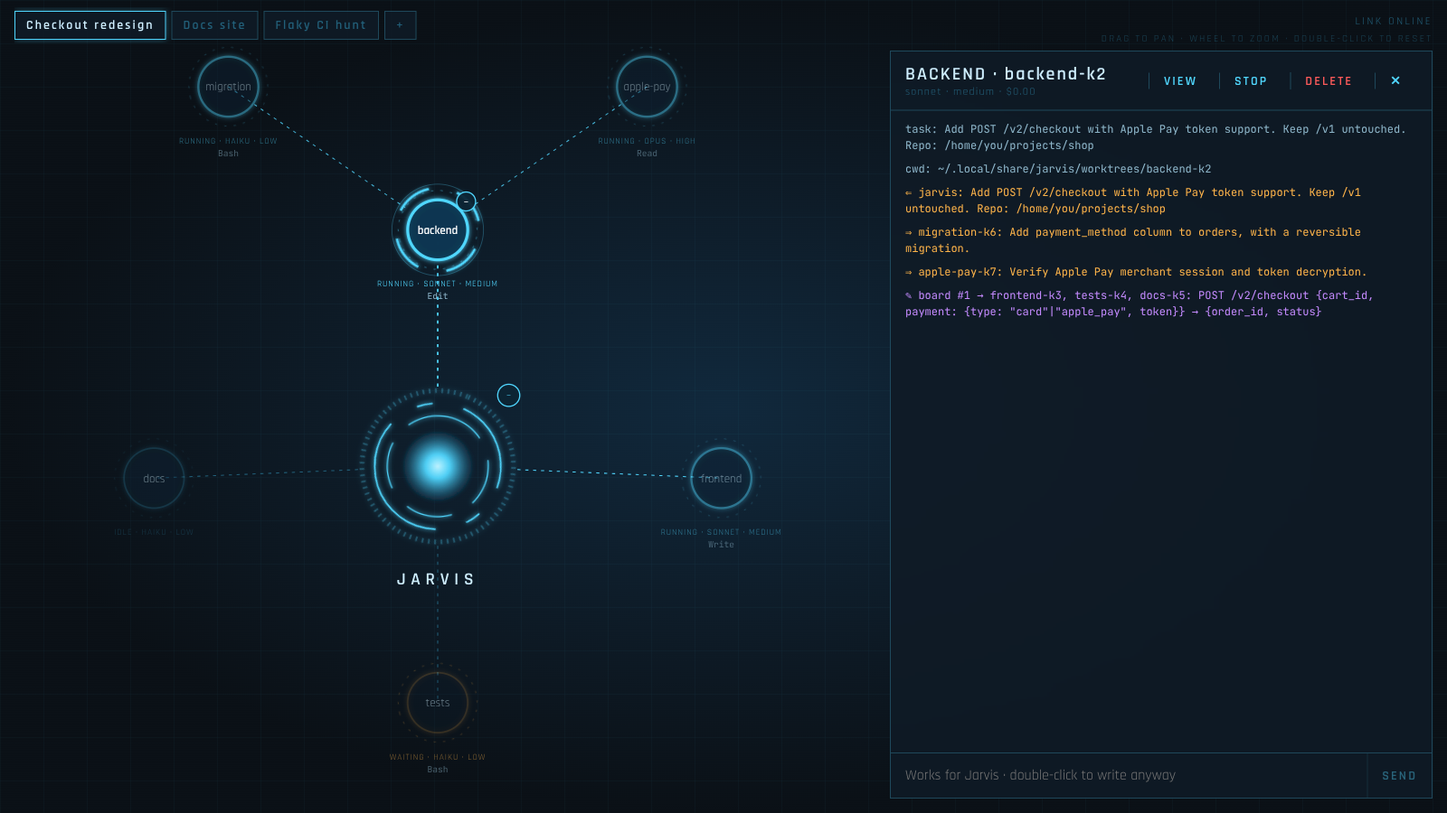
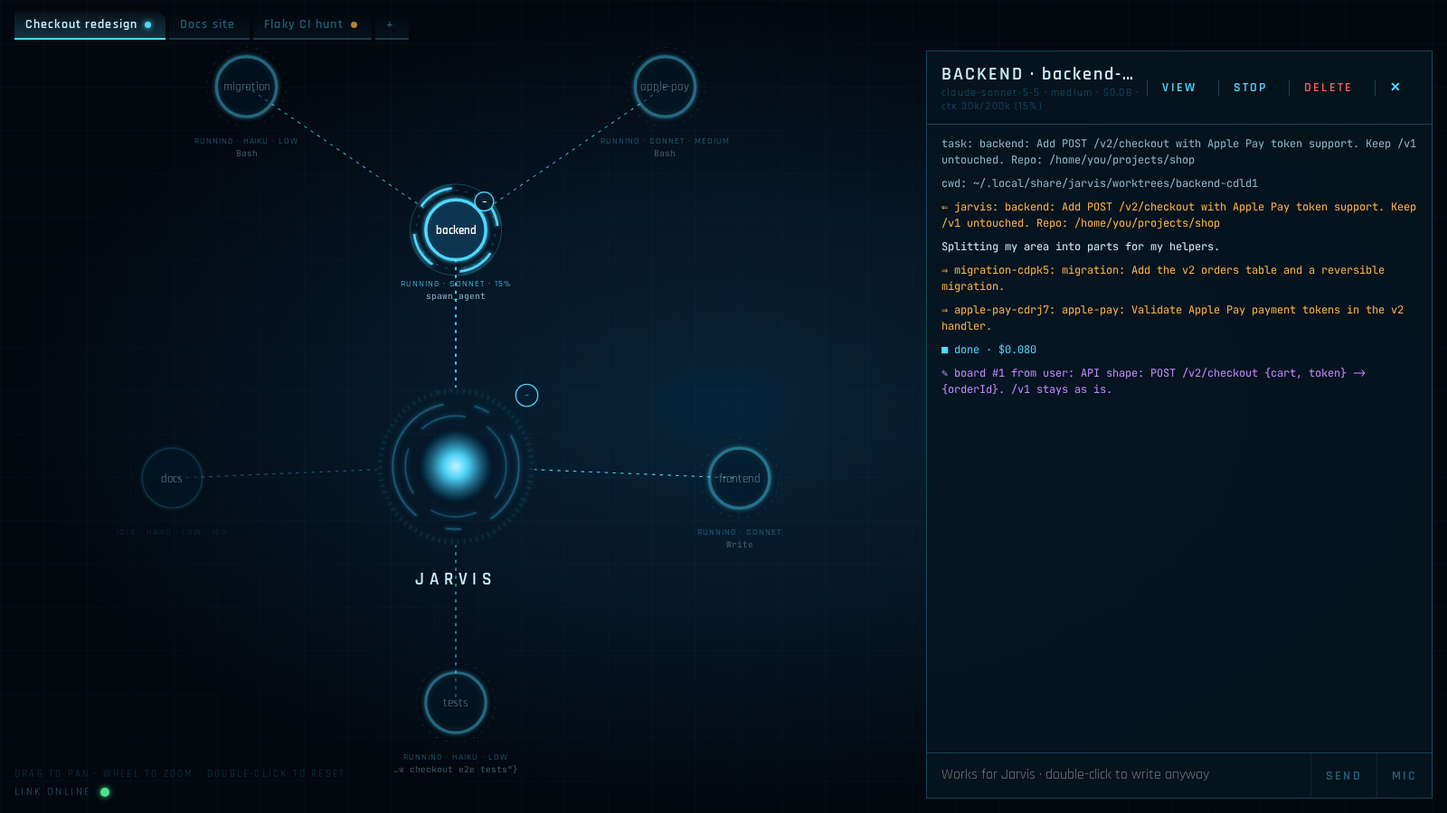
docs: shorten the README into an entry point, move details to a user guide, retake all media
The README is now a short entry point: what Jarvis is, quick start, feature bullets, a short voice section, the important settings and links. The detailed sections (map, controls, big teams, full voice input behavior, safety, costs, the full settings table) moved unchanged into docs/GUIDE.md.

The demo animation and all five screenshots are retaken from the current UI (full-width workspace bar, Anthropic status dot, COMPACT and RESET buttons, mic button) and are smaller in total.

diff --git a/README.md b/README.md
@@ -4,13 +4,13 @@
 
 **One AI manager that runs a team of AI coding agents, and a live map where you watch them work.**
 
-You describe a goal in plain words. Jarvis splits it into tasks, hands each task to its own [Claude Code](https://claude.com/claude-code) agent, and shows the whole team on screen: who is working, on what, how much it costs, and when someone needs your OK. Jarvis never edits code. Before it hands a hard decision to you, it asks an independent, quick, read-only Opus advisor agent for a second opinion, then decides and tells you both; scope, taste, money, publishing and deleting your work stay yours. Each agent works on its own git branch.
+Describe a goal in plain words. Jarvis splits it into tasks, hands each to its own [Claude Code](https://claude.com/claude-code) agent, and shows the whole team on screen: who works on what, what it costs, and when someone needs your OK. Jarvis never edits code, and asks an independent read-only Opus advisor before it hands a hard decision to you.
 
 ![Jarvis splits a goal into tasks, hires agents and a lead with its own helpers, and asks for approval when needed](docs/screenshots/demo.webp)
 
 ## Quick start
 
-You need Linux or macOS, **Node.js 24+**, **git**, and **Claude Code** set up so that `claude` works in your terminal. Agents use the same login, API key or proxy settings.
+Needs Linux or macOS, **Node.js 24+**, **git**, and Claude Code set up so that `claude` works in your terminal (agents reuse its login, API key or proxy).
 
 ```bash
 git clone https://github.com/ARostovsky/jarvis.git
@@ -18,156 +18,55 @@ cd jarvis
 npm install
 ln -s "$PWD/bin/jarvis.mjs" ~/.local/bin/jarvis   # once; any folder in your PATH works
 
-jarvis            # starts the server in the background and opens http://127.0.0.1:7777
+jarvis            # starts the server in the background, opens http://127.0.0.1:7777
 ```
 
-Also: `jarvis stop|restart|status|logs`. Foreground: `npm start`.
-
-Browser tests: `npm run e2e` (Playwright, starts its own server on port 7798, or `E2E_PORT` to run several at once, e.g. `E2E_PORT=7810 npm run e2e`, with a throwaway data dir and a scripted fake of the Agent SDK, so no API calls; needs chromium, `npx playwright install chromium`).
-
-First goal:
-
-1. A fresh install has no workspace and shows an empty screen: click **NEW WORKSPACE** (or **+** in the tab bar). Name the workspace and, optionally, give the path to your git project. Project and notes folders you used before are offered in a list, most recent first.
-2. In the Jarvis chat, describe a goal, for example: *"Add a /health endpoint with a test."*
-3. Watch Jarvis hire agents. Answer approval cards.
-4. Work lands on `jarvis/<agent-id>` branches in your repo. Review and merge.
-
-## What you see
-
-### The map
-
-Jarvis is in the center, agents around it. Each tab is a separate workspace: its own Jarvis, team and history.
+Also `jarvis stop|restart|status|logs`; foreground: `npm start`. Then click **NEW WORKSPACE**, name it, optionally give the path to your git project, and describe a goal in the Jarvis chat.
 
 ![Jarvis in the center, agents around it, Jarvis's chat on the right](docs/screenshots/hero.png)
 
-| Color | Meaning |
-|-------|---------|
-| Cyan, bright | Working right now |
-| Dim | Idle, waiting for the next message |
-| Amber | Waiting for your approval |
-| Red | Something went wrong |
-| Gray | Stopped |
+## Features
 
-### Log and chat
+- **Live map.** Jarvis in the center, agents around it, one tab per workspace. Color shows state: working, idle, waiting for approval, error, stopped.
+- **Safe by default.** Each agent works in its own git worktree on `jarvis/<agent-id>`; you review and merge. Nothing is lost silently, workspaces are archived, not deleted.
+- **Approvals.** Agents run in Claude Code's `auto` mode; only what its classifier cannot decide shows up as an ALLOW / DENY card.
+- **Teams.** Jarvis picks the cheapest fitting model per task; leads hire helpers; big teams fold into `+N` badges.
+- **Costs.** Cost per agent and workspace, COMPACT and RESET for long contexts, nothing stopped automatically.
+- **Notes folder.** Optional shared markdown folder Jarvis keeps current and commits to git.
+- **Anthropic status dot** (bottom left): green all good, amber degraded, red outage, grey unknown.
+- **Local only.** Listens on `127.0.0.1`, rejects other origins; every event is on disk, so restarts lose nothing.
 
-- Click a circle to open its log: task, messages, tool calls, cost per step.
-- Give goals in Jarvis's chat. Other agents' inputs are locked; double-click one to write anyway.
+Details, screenshots and all behavior: [docs/GUIDE.md](docs/GUIDE.md).
 
-![An agent's log: the task, messages to its helpers, a board note, the cost](docs/screenshots/agent.png)
+## Voice input (optional)
 
-### Approvals
+Off by default. A mic button next to SEND turns speech into text with a local Whisper model (faster-whisper); audio stays on your machine and is never stored.
 
-- Agents run in Claude Code's `auto` mode. Only actions its classifier cannot decide show up as a card.
-- Read the command, press ALLOW or DENY. The agent waits.
-
-![An approval card: the tests agent wants to run a shell command](docs/screenshots/approve.png)
-
-### Controls
-
-- Drag a tab left or right to reorder workspaces; the order is kept across restarts.
-- Jarvis in one workspace can message Jarvis in another (`tell_workspace`, e.g. a heads-up about a shared branch). Messages are urgent by default and wake an idle target; a reply to an urgent message is always urgent. With `urgent: false` an idle one is not woken: its tab shows a count of unread messages, and they arrive with its next turn. A wake happens only if the target is idle (a stopped one stays stopped; the reply says which targets were not woken).
-- A workspace's Jarvis can start another workspace with a task (`create_workspace`). Use it when you ask a workspace to hand a separate task to a new one. The new workspace gets the same project (unless another is given), notes folder and Jarvis setup, and sees only the task text, so the task must be self-contained. The creating workspace keeps running. Refused while working on a message from another workspace, and after 3 creations until you write to it again.
-- Right-click an agent, Jarvis or a tab: model, effort, stop, delete, hide, rename, archive.
-
-![Right-click menu on the frontend agent: Open log, Model, Effort, Hide, Stop, Delete agent](docs/screenshots/menu.png)
-
-### Big teams
-
-- Every agent ends its report with a `VERDICT: verified`, `partial` or `failed` line; Jarvis routes on it. A small task goes straight to one agent, a large or unclear goal gets a planner agent first.
-- A lead folds its helpers into a `+N` badge while none of them works.
-- Only agents Jarvis starts as leads (for a large multi-part area) can hire helpers; other agents work alone. A lead shows as running until its helpers are done, then reports to Jarvis once (a restart in between loses that report).
-- Jarvis hides agents that were idle over 10 minutes once it has more than 8. Right-click Jarvis for **Hide idle agents** or **Show all agents**.
-
-![A big team: two leads with their helpers out, one folded into +5, and Jarvis hiding 9 idle agents](docs/screenshots/fold.png)
-
-### Voice input (optional)
-
-Off by default. A mic button next to SEND turns speech into text with a local Whisper model (faster-whisper in a Python sidecar). Jarvis itself records the microphone through PipeWire, so the browser asks for no permission. Audio stays on your machine and is never stored (unless you set `JARVIS_VOICE_DEBUG_WAV`, see the env table); on release the transcript is sent at once to the agent that was selected when you started, like a voice message, and your draft stays as it was. With `JARVIS_VOICE_AUTOSEND=0` it lands in the input box at the caret instead and is never sent by itself. A failed send puts the text into that agent's draft.
-
-To enable it:
-
-1. Linux with PipeWire and `pw-record` (package `pipewire`, or `pipewire-bin` / `pipewire-utils`). Jarvis records the default input of your sound server: the one `wpctl status` marks with `*` under Sources.
-2. Set up Python with `faster-whisper` (`voice/setup.sh` creates `voice/.venv` and fetches the models; Jarvis uses that venv by default), or point `JARVIS_VOICE_PYTHON` at a Python that already has it.
+1. Needs Linux with PipeWire (`pw-record`) and a GPU for `large-v3` (about 4 GB VRAM; CPU falls back to a slower model).
+2. Run `voice/setup.sh` (creates `voice/.venv`, fetches the models).
 3. Start Jarvis with `JARVIS_VOICE=1` (`cpu` forces CPU).
 
-If `pw-record`, Python or `faster-whisper` is missing, Jarvis starts as usual, logs one `voice disabled: ...` line (for example `voice disabled: pw-record not found`) to `server.log` and shows no mic button. The check runs after the server starts, so the mic button appears a moment later (reload the page if it is missing right after a start).
-
-Push-to-talk: hold the mic button, or hold `Ctrl+Space` in the input box or `Alt+V` anywhere, and release to transcribe and send the text to the agent that was selected when you started (`JARVIS_VOICE_AUTOSEND=0` puts it into the input box instead). Voice follows the same guard as typing: for an agent that works for a lead the input is read-only, so recording does not start until you double-click the input to unlock it. While recording, a red strip replaces SEND: `● 0:07 · release to send · Esc / drag away to cancel`. To cancel, release within 0.4 s of the press (a tap), press `Esc`, or, with the mouse, drag the pointer more than about 60 px away from the button (it turns grey and struck through; move back to keep recording) and release there. A cancel sends and transcribes nothing; with autosend, switching to another window cancels too. While it transcribes the strip says `transcribing… Esc to discard` and the button ignores presses; `Esc` then drops the text when it arrives (it is not inserted or sent; the transcription itself still runs to the end). The mic button is greyed out like SEND while the input is read-only. Recording stops by itself after 60 s (`JARVIS_VOICE_MAX_S`). If the server ends a recording on its own (it lost track of the page, or restarted), the button goes back to idle and a toast says `Recording stopped`. The button turns red and shows a level meter while it records. Recording starts when Jarvis has the first audio from `pw-record`, about a tenth of a second after the press, so wait for the red button before the first word. If `pw-record` cannot start, a toast says why. A muted microphone records silence and gives `No speech recognized`: check `wpctl status`.
-
-The recorder never outlives its use: it stops on release, on `Esc`, after 60 s, when the page stops reporting for 4 s (tab closed, crash), and when Jarvis exits. Only the tab that started a recording can stop or cancel it.
-
-The default model is `large-v3` (float16, beam 5): about 4 GB of VRAM at peak, loaded on the first recording and unloaded after 10 idle minutes. On CPU it falls back to `large-v3-turbo` (int8), which is slower than real time on a short clip. English and Russian are detected per recording. `JARVIS_VOICE_MODEL` picks another model.
-
-### Anthropic status
-
-The dot at the bottom left, next to the link indicator, shows whether Anthropic's API is up: green all good, amber degraded, red outage, dark red critical, grey unknown (status page unreachable). Hover for the description and open incidents; click to open status.claude.com. It is global, not per workspace, so you can tell "Anthropic is down" from an agent error.
-
-### Notes folder
-
-- A workspace can point at a persistent markdown folder, shareable between workspaces. Set it in the **+** dialog or the tab's right-click menu.
-- Jarvis reads it at the start of a goal and keeps it up to date. Other agents are only *told* to read it, and to edit it only when their task asks for it. This is a prompt rule, not enforced.
-- Each workspace keeps its log in `journal/<date>-<name slug>-<id suffix>.md`. When you rename the workspace, its journal files are renamed too: Jarvis learns the new name from a note in its next message, and anything it still writes under the old name is merged into the new file at the next commit.
-- Jarvis commits the folder to git after each turn. Each workspace commits only the files its own agents changed (Jarvis and helpers); your own edits there stay uncommitted. Each commit has a short description of the change written by Jarvis, and ends with `Workspace: <name>`. Details: [docs/ARCHITECTURE.md](docs/ARCHITECTURE.md).
-
-### Code blocks
-
-- Every fenced code block in the chat has a **Copy** button at its top right (shown on hover or keyboard focus, always on touch screens). One click copies the whole block.
-
-## Safety
-
-- **Your project folder is never edited directly** when it is a git repo. Each agent works in its own git worktree on branch `jarvis/<agent-id>`. You review and merge. When an agent is stopped or its workspace is archived, its worktree and branch are removed if the branch is merged into `main` (or has no commits) and the worktree has no uncommitted changes; anything else is kept and listed.
-- **Nothing is lost silently.** Deleting an agent with unsaved changes asks you to commit or discard them. It also names the files no commit keeps, which can only be discarded: files your `.gitignore` ignores (`.env`, `node_modules`), and all files of an agent that works outside git. Archiving refuses while agents work, and commits unsaved work first. Ignored files move into the archive with the workspace and come back on restore; one the restored branch now has a file for stays parked, and deleting the agent names it. Jarvis never deletes agent branches.
-- **Agents cannot run code through Jarvis's own git.** Jarvis takes the git dir from your repo, not from the worktree's `.git` file, which an agent could replace. Repos nested in a worktree are not looked into.
-- **Archive, not delete.** Closing a workspace archives it (also the last one: zero workspaces is fine and shows the empty screen), and you can restore it with all conversations. Agents whose branch you have since merged and deleted come back without a workdir; delete them. If a branch is checked out somewhere else, the restore fails with that error and the workspace stays in the archive. Permanent delete works only in the archive and asks you to type the workspace name.
-- **Local only.** The web UI listens on `127.0.0.1` and rejects requests from other websites.
-- **Restarts are safe.** Every event is written to disk. After a restart the map, logs and costs return, and agents continue on the next message.
-
-## Costs
-
-- Every agent is a separate Claude session. Each panel shows its cost and **Σ**, the total with its helpers.
-- The workspace tab shows the full spend of the workspace, including stopped agents and agents you deleted.
-- Jarvis picks the cheapest fitting model (`haiku`, `sonnet`, `opus`). You can change it.
-- Long context costs more. Press **COMPACT** to summarize. When a helper's context passes 200k tokens or its cost passes $10, its lead (or Jarvis) is told, and can restart it with a summary. Nothing is stopped automatically.
-- Jarvis's own context is reset automatically. Past 150k tokens, at a calm moment (no agent of the workspace runs or waits), or past 200k tokens regardless, always after a quiet second following one of its results, the server first asks it to update `status.md` and its journal in the notes folder (one save-notes turn; skipped without a notes folder), then ends the session and starts a fresh one in the same workspace. The fresh session gets a seed: the agent list, its last message and the messages it may not have handled. Both bounds are capped at 0.6 × the model's context window once that is known (so on a 200k window both act at 120k). A fresh session that starts large cannot reset again until it has grown 50k beyond its first turn. Workspace, agents, board and log are untouched; the log shows a compaction marked `reset`. The RESET button next to COMPACT in Jarvis's panel is a direct order: it resets whatever the size, and the save turn cannot stop it (Jarvis is told you ordered the reset and must not argue; if that turn fails or runs past 2 minutes, the session is replaced anyway). The confirmation depends on the notes folder: with one, Jarvis saves its state there first (editing shared files carefully, as other workspaces may use the same folder); without one nothing is saved, only a short summary (agents, last message, pending messages) survives and the decisions of the chat are lost, so use COMPACT instead. The button is hidden while Jarvis works; a running turn is never interrupted. COMPACT is unchanged.
+Hold the mic button, `Ctrl+Space` in the input box or `Alt+V` anywhere; release to transcribe and send to the agent selected when you started (`JARVIS_VOICE_AUTOSEND=0` puts the text into the input box instead). Cancel with `Esc`, a short press (under 0.4 s), or by dragging the pointer away from the button before releasing. Bias recognition toward your own terms with `JARVIS_VOICE_PROMPT` (appended to a built-in list; `JARVIS_VOICE_PROMPT_DEFAULT=0` drops the built-in list). More in [docs/GUIDE.md](docs/GUIDE.md#voice-input-optional).
 
 ## Settings
 
-All optional. Set as environment variables before `jarvis` or `npm start`:
+All optional, set as environment variables before `jarvis` or `npm start`. Data lives in `~/.local/share/jarvis/` (or `$XDG_DATA_HOME/jarvis`).
 
 | Variable | Default | What it does |
 |----------|---------|--------------|
 | `PORT` | `7777` | Web UI port |
 | `JARVIS_AGENT_MODEL` | `sonnet` | Default model for new agents |
-| `JARVIS_AGENT_EFFORT` | `medium` | Default agent effort (`low` ... `max`) |
-| `JARVIS_LEAD_MAX_EFFORT` | `medium` | Top effort a lead may give its sub-agents; a lead also cannot give them a higher model than its own |
 | `JARVIS_ARBITER_MODEL` | `sonnet` | Jarvis model |
-| `JARVIS_ARBITER_EFFORT` | `medium` | Jarvis effort |
 | `JARVIS_PERMISSION_MODE` | `auto` | `auto`, `acceptEdits`, `default`, ... |
-| `JARVIS_PLUGINS` | `caveman@caveman,ponytail@ponytail,frontend-design@claude-plugins-official,code-simplifier@claude-plugins-official,code-review@claude-plugins-official,claude-md-management@claude-plugins-official` | Claude Code plugins agents load (comma-separated; empty = none; missing ones are skipped) |
-| `JARVIS_STATUS_URL` | `https://status.claude.com/api/v2/summary.json` | Statuspage JSON behind the status dot (override only for tests) |
-| `JARVIS_RESET_SOFT_TOKENS` | `150000` | Jarvis context size that triggers a reset at a calm moment; `0` turns off the soft bound |
-| `JARVIS_RESET_HARD_TOKENS` | `200000` | Jarvis context size that triggers a reset at its next result; `0` turns off automatic reset entirely |
-| `JARVIS_RESET_SAVE_TIMEOUT_MS` | `120000` | Longest the RESET button waits for Jarvis to save its notes before it resets anyway |
-| `JARVIS_CLAUDE_PATH` | `claude` on `PATH` | Claude Code binary sessions run. Default is the first executable `claude` on `PATH` (the auto-updating install), picked up again at each session start. It falls back to the build bundled in the SDK package when none is found, when `claude --version` fails, or when it is older than the bundled one. `bundled` forces the bundled build (escape hatch); the choice is logged at startup |
 | `JARVIS_PLAYWRIGHT` | `1` | Headless browser for each agent; `headed` shows windows; `0` turns it off |
-| `JARVIS_VOICE` | unset (off) | `1` turns voice input on, `cpu` forces CPU. See Voice input |
-| `JARVIS_VOICE_AUTOSEND` | `1` | On release the transcript is sent at once to the agent that was selected when recording started (like a Telegram voice message); your draft stays untouched. `0` inserts it into the input box instead, without sending |
-| `JARVIS_VOICE_MAX_S` | `60` | Seconds after which the server stops a recording by itself (the audio so far is still transcribed on release) |
-| `JARVIS_VOICE_LEASE_S` | `4` | Seconds without a level poll from the page after which the server discards a recording and closes the microphone |
-| `JARVIS_VOICE_PYTHON` | `voice/.venv/bin/python` if it exists, else `python3` | Python with `faster-whisper` for the voice sidecar |
-| `JARVIS_VOICE_MODEL` | `large-v3` | Whisper model of the sidecar |
-| `JARVIS_VOICE_LANGS` | `en,ru` | Languages the sidecar picks from |
-| `JARVIS_VOICE_IDLE_S` | `600` | Idle seconds before the sidecar exits and frees VRAM |
-| `JARVIS_VOICE_TIMEOUT_S` | `120` | Seconds one recording may take to transcribe; then the sidecar is killed, the request fails and the next one restarts it |
-| `JARVIS_VOICE_PROMPT` | unset | Extra Whisper initial-prompt terms, appended to the built-in list (comma-separated names and terms). The built-in list biases recognition toward English dev terms said in Russian speech: Jarvis, workspace, worktree, arbiter, agent, spawn, board, notes, Claude, Opus, Sonnet, git, commit, branch, rebase, merge, push, pull request, PR, main, diff, review, test, e2e, npm, TypeScript, Python, Docker, Kafka, API, CI, bug, fix, refactor, deploy (full text: `DEFAULT_PROMPT` in `voice/stt.py`). Keep it a plain list of terms, not a sentence: a result that equals or nearly equals the prompt, repeats its start, or repeats a run of two or more of its terms is dropped as an echo (a prompt under 4 words only when repeated whole) |
-| `JARVIS_VOICE_PROMPT_DEFAULT` | `1` | `0` leaves the built-in term list out, so only `JARVIS_VOICE_PROMPT` is used; with both, no prompt at all |
-| `JARVIS_VOICE_DEBUG_WAV` | unset (off) | Directory. **Deliberately writes your audio and its transcript to disk**: every recording overwrites `<dir>/last.wav` (16 kHz mono s16) and `<dir>/last.txt`. For diagnosing recognition quality; leave unset otherwise |
+| `JARVIS_VOICE` | unset (off) | `1` turns voice input on, `cpu` forces CPU |
+| `JARVIS_VOICE_AUTOSEND` | `1` | `0` inserts the transcript into the input box instead of sending it |
 
-Data lives in `~/.local/share/jarvis/` (or `$XDG_DATA_HOME/jarvis`), never in this repo.
+The full list (effort, plugins, reset bounds, Claude binary, every voice variable) is in [docs/GUIDE.md](docs/GUIDE.md#settings).
 
-## Customize it
+## Develop
 
-See [docs/ARCHITECTURE.md](docs/ARCHITECTURE.md) for the internals, the HTTP API and recipes for common changes.
+`npm run check` (tsc), `npm test`, `npm run e2e` (Playwright with a fake SDK, no API calls). Internals, the HTTP API and recipes: [docs/ARCHITECTURE.md](docs/ARCHITECTURE.md).
 
 ## License
 

diff --git a/docs/GUIDE.md b/docs/GUIDE.md
@@ -1,0 +1,143 @@
+# Jarvis user guide
+
+The details behind the [README](../README.md): what the screen shows, controls, voice input, safety, costs and every setting. For internals see [ARCHITECTURE.md](ARCHITECTURE.md).
+
+## Contents
+
+- [What you see](#what-you-see): map, log, approvals, controls, big teams, voice input, status dot, notes folder
+- [Safety](#safety)
+- [Costs](#costs)
+- [Settings](#settings)
+
+## What you see
+
+### The map
+
+Jarvis is in the center, agents around it. Each tab is a separate workspace: its own Jarvis, team and history. The tab bar spans the full width; the dot at the bottom left is the Anthropic status (below).
+
+![Jarvis in the center, agents around it, Jarvis's chat on the right](screenshots/hero.png)
+
+| Color | Meaning |
+|-------|---------|
+| Cyan, bright | Working right now |
+| Dim | Idle, waiting for the next message |
+| Amber | Waiting for your approval |
+| Red | Something went wrong |
+| Gray | Stopped |
+
+### Log and chat
+
+- Click a circle to open its log: task, messages, tool calls, cost per step.
+- Give goals in Jarvis's chat. Other agents' inputs are locked; double-click one to write anyway.
+
+![An agent's log: the task, messages to its helpers, a board note, the cost](screenshots/agent.png)
+
+### Approvals
+
+- Agents run in Claude Code's `auto` mode. Only actions its classifier cannot decide show up as a card.
+- Read the command, press ALLOW or DENY. The agent waits.
+
+![An approval card: the tests agent wants to run a shell command](screenshots/approve.png)
+
+### Controls
+
+- Drag a tab left or right to reorder workspaces; the order is kept across restarts.
+- Jarvis in one workspace can message Jarvis in another (`tell_workspace`, e.g. a heads-up about a shared branch). Messages are urgent by default and wake an idle target; a reply to an urgent message is always urgent. With `urgent: false` an idle one is not woken: its tab shows a count of unread messages, and they arrive with its next turn. A wake happens only if the target is idle (a stopped one stays stopped; the reply says which targets were not woken).
+- A workspace's Jarvis can start another workspace with a task (`create_workspace`). Use it when you ask a workspace to hand a separate task to a new one. The new workspace gets the same project (unless another is given), notes folder and Jarvis setup, and sees only the task text, so the task must be self-contained. The creating workspace keeps running. Refused while working on a message from another workspace, and after 3 creations until you write to it again.
+- Right-click an agent, Jarvis or a tab: model, effort, stop, delete, hide, rename, archive.
+
+![Right-click menu on the frontend agent: Open log, Model, Effort, Hide, Stop, Delete agent](screenshots/menu.png)
+
+### Big teams
+
+- Every agent ends its report with a `VERDICT: verified`, `partial` or `failed` line; Jarvis routes on it. A small task goes straight to one agent, a large or unclear goal gets a planner agent first.
+- A lead folds its helpers into a `+N` badge while none of them works.
+- Only agents Jarvis starts as leads (for a large multi-part area) can hire helpers; other agents work alone. A lead shows as running until its helpers are done, then reports to Jarvis once (a restart in between loses that report).
+- Jarvis hides agents that were idle over 10 minutes once it has more than 8. Right-click Jarvis for **Hide idle agents** or **Show all agents**.
+
+![A big team: two leads folded into +6 and +5, and Jarvis hiding 10 idle agents](screenshots/fold.png)
+
+### Voice input (optional)
+
+Off by default. A mic button next to SEND turns speech into text with a local Whisper model (faster-whisper in a Python sidecar). Jarvis itself records the microphone through PipeWire, so the browser asks for no permission. Audio stays on your machine and is never stored (unless you set `JARVIS_VOICE_DEBUG_WAV`, see the env table); on release the transcript is sent at once to the agent that was selected when you started, like a voice message, and your draft stays as it was. With `JARVIS_VOICE_AUTOSEND=0` it lands in the input box at the caret instead and is never sent by itself. A failed send puts the text into that agent's draft.
+
+To enable it:
+
+1. Linux with PipeWire and `pw-record` (package `pipewire`, or `pipewire-bin` / `pipewire-utils`). Jarvis records the default input of your sound server: the one `wpctl status` marks with `*` under Sources.
+2. Set up Python with `faster-whisper` (`voice/setup.sh` creates `voice/.venv` and fetches the models; Jarvis uses that venv by default), or point `JARVIS_VOICE_PYTHON` at a Python that already has it.
+3. Start Jarvis with `JARVIS_VOICE=1` (`cpu` forces CPU).
+
+If `pw-record`, Python or `faster-whisper` is missing, Jarvis starts as usual, logs one `voice disabled: ...` line (for example `voice disabled: pw-record not found`) to `server.log` and shows no mic button. The check runs after the server starts, so the mic button appears a moment later (reload the page if it is missing right after a start).
+
+Push-to-talk: hold the mic button, or hold `Ctrl+Space` in the input box or `Alt+V` anywhere, and release to transcribe and send the text to the agent that was selected when you started (`JARVIS_VOICE_AUTOSEND=0` puts it into the input box instead). Voice follows the same guard as typing: for an agent that works for a lead the input is read-only, so recording does not start until you double-click the input to unlock it. While recording, a red strip replaces SEND: `● 0:07 · release to send · Esc / drag away to cancel`. To cancel, release within 0.4 s of the press (a tap), press `Esc`, or, with the mouse, drag the pointer more than about 60 px away from the button (it turns grey and struck through; move back to keep recording) and release there. A cancel sends and transcribes nothing; with autosend, switching to another window cancels too. While it transcribes the strip says `transcribing… Esc to discard` and the button ignores presses; `Esc` then drops the text when it arrives (it is not inserted or sent; the transcription itself still runs to the end). The mic button is greyed out like SEND while the input is read-only. Recording stops by itself after 60 s (`JARVIS_VOICE_MAX_S`). If the server ends a recording on its own (it lost track of the page, or restarted), the button goes back to idle and a toast says `Recording stopped`. The button turns red and shows a level meter while it records. Recording starts when Jarvis has the first audio from `pw-record`, about a tenth of a second after the press, so wait for the red button before the first word. If `pw-record` cannot start, a toast says why. A muted microphone records silence and gives `No speech recognized`: check `wpctl status`.
+
+The recorder never outlives its use: it stops on release, on `Esc`, after 60 s, when the page stops reporting for 4 s (tab closed, crash), and when Jarvis exits. Only the tab that started a recording can stop or cancel it.
+
+The default model is `large-v3` (float16, beam 5): about 4 GB of VRAM at peak, loaded on the first recording and unloaded after 10 idle minutes. On CPU it falls back to `large-v3-turbo` (int8), which is slower than real time on a short clip. English and Russian are detected per recording. `JARVIS_VOICE_MODEL` picks another model.
+
+### Anthropic status
+
+The dot at the bottom left, next to the link indicator, shows whether Anthropic's API is up: green all good, amber degraded, red outage, dark red critical, grey unknown (status page unreachable). Hover for the description and open incidents; click to open status.claude.com. It is global, not per workspace, so you can tell "Anthropic is down" from an agent error.
+
+### Notes folder
+
+- A workspace can point at a persistent markdown folder, shareable between workspaces. Set it in the **+** dialog or the tab's right-click menu.
+- Jarvis reads it at the start of a goal and keeps it up to date. Other agents are only *told* to read it, and to edit it only when their task asks for it. This is a prompt rule, not enforced.
+- Each workspace keeps its log in `journal/<date>-<name slug>-<id suffix>.md`. When you rename the workspace, its journal files are renamed too: Jarvis learns the new name from a note in its next message, and anything it still writes under the old name is merged into the new file at the next commit.
+- Jarvis commits the folder to git after each turn. Each workspace commits only the files its own agents changed (Jarvis and helpers); your own edits there stay uncommitted. Each commit has a short description of the change written by Jarvis, and ends with `Workspace: <name>`. Details: [docs/ARCHITECTURE.md](ARCHITECTURE.md).
+
+### Code blocks
+
+- Every fenced code block in the chat has a **Copy** button at its top right (shown on hover or keyboard focus, always on touch screens). One click copies the whole block.
+
+## Safety
+
+- **Your project folder is never edited directly** when it is a git repo. Each agent works in its own git worktree on branch `jarvis/<agent-id>`. You review and merge. When an agent is stopped or its workspace is archived, its worktree and branch are removed if the branch is merged into `main` (or has no commits) and the worktree has no uncommitted changes; anything else is kept and listed.
+- **Nothing is lost silently.** Deleting an agent with unsaved changes asks you to commit or discard them. It also names the files no commit keeps, which can only be discarded: files your `.gitignore` ignores (`.env`, `node_modules`), and all files of an agent that works outside git. Archiving refuses while agents work, and commits unsaved work first. Ignored files move into the archive with the workspace and come back on restore; one the restored branch now has a file for stays parked, and deleting the agent names it. Jarvis never deletes agent branches.
+- **Agents cannot run code through Jarvis's own git.** Jarvis takes the git dir from your repo, not from the worktree's `.git` file, which an agent could replace. Repos nested in a worktree are not looked into.
+- **Archive, not delete.** Closing a workspace archives it (also the last one: zero workspaces is fine and shows the empty screen), and you can restore it with all conversations. Agents whose branch you have since merged and deleted come back without a workdir; delete them. If a branch is checked out somewhere else, the restore fails with that error and the workspace stays in the archive. Permanent delete works only in the archive and asks you to type the workspace name.
+- **Local only.** The web UI listens on `127.0.0.1` and rejects requests from other websites.
+- **Restarts are safe.** Every event is written to disk. After a restart the map, logs and costs return, and agents continue on the next message.
+
+## Costs
+
+- Every agent is a separate Claude session. Each panel shows its cost and **Σ**, the total with its helpers.
+- The workspace tab shows the full spend of the workspace, including stopped agents and agents you deleted.
+- Jarvis picks the cheapest fitting model (`haiku`, `sonnet`, `opus`). You can change it.
+- Long context costs more. Press **COMPACT** to summarize. When a helper's context passes 200k tokens or its cost passes $10, its lead (or Jarvis) is told, and can restart it with a summary. Nothing is stopped automatically.
+- Jarvis's own context is reset automatically. Past 150k tokens, at a calm moment (no agent of the workspace runs or waits), or past 200k tokens regardless, always after a quiet second following one of its results, the server first asks it to update `status.md` and its journal in the notes folder (one save-notes turn; skipped without a notes folder), then ends the session and starts a fresh one in the same workspace. The fresh session gets a seed: the agent list, its last message and the messages it may not have handled. Both bounds are capped at 0.6 × the model's context window once that is known (so on a 200k window both act at 120k). A fresh session that starts large cannot reset again until it has grown 50k beyond its first turn. Workspace, agents, board and log are untouched; the log shows a compaction marked `reset`. The RESET button next to COMPACT in Jarvis's panel is a direct order: it resets whatever the size, and the save turn cannot stop it (Jarvis is told you ordered the reset and must not argue; if that turn fails or runs past 2 minutes, the session is replaced anyway). The confirmation depends on the notes folder: with one, Jarvis saves its state there first (editing shared files carefully, as other workspaces may use the same folder); without one nothing is saved, only a short summary (agents, last message, pending messages) survives and the decisions of the chat are lost, so use COMPACT instead. The button is hidden while Jarvis works; a running turn is never interrupted. COMPACT is unchanged.
+
+## Settings
+
+All optional. Set as environment variables before `jarvis` or `npm start`:
+
+| Variable | Default | What it does |
+|----------|---------|--------------|
+| `PORT` | `7777` | Web UI port |
+| `JARVIS_AGENT_MODEL` | `sonnet` | Default model for new agents |
+| `JARVIS_AGENT_EFFORT` | `medium` | Default agent effort (`low` ... `max`) |
+| `JARVIS_LEAD_MAX_EFFORT` | `medium` | Top effort a lead may give its sub-agents; a lead also cannot give them a higher model than its own |
+| `JARVIS_ARBITER_MODEL` | `sonnet` | Jarvis model |
+| `JARVIS_ARBITER_EFFORT` | `medium` | Jarvis effort |
+| `JARVIS_PERMISSION_MODE` | `auto` | `auto`, `acceptEdits`, `default`, ... |
+| `JARVIS_PLUGINS` | `caveman@caveman,ponytail@ponytail,frontend-design@claude-plugins-official,code-simplifier@claude-plugins-official,code-review@claude-plugins-official,claude-md-management@claude-plugins-official` | Claude Code plugins agents load (comma-separated; empty = none; missing ones are skipped) |
+| `JARVIS_STATUS_URL` | `https://status.claude.com/api/v2/summary.json` | Statuspage JSON behind the status dot (override only for tests) |
+| `JARVIS_RESET_SOFT_TOKENS` | `150000` | Jarvis context size that triggers a reset at a calm moment; `0` turns off the soft bound |
+| `JARVIS_RESET_HARD_TOKENS` | `200000` | Jarvis context size that triggers a reset at its next result; `0` turns off automatic reset entirely |
+| `JARVIS_RESET_SAVE_TIMEOUT_MS` | `120000` | Longest the RESET button waits for Jarvis to save its notes before it resets anyway |
+| `JARVIS_CLAUDE_PATH` | `claude` on `PATH` | Claude Code binary sessions run. Default is the first executable `claude` on `PATH` (the auto-updating install), picked up again at each session start. It falls back to the build bundled in the SDK package when none is found, when `claude --version` fails, or when it is older than the bundled one. `bundled` forces the bundled build (escape hatch); the choice is logged at startup |
+| `JARVIS_PLAYWRIGHT` | `1` | Headless browser for each agent; `headed` shows windows; `0` turns it off |
+| `JARVIS_VOICE` | unset (off) | `1` turns voice input on, `cpu` forces CPU. See Voice input |
+| `JARVIS_VOICE_AUTOSEND` | `1` | On release the transcript is sent at once to the agent that was selected when recording started (like a Telegram voice message); your draft stays untouched. `0` inserts it into the input box instead, without sending |
+| `JARVIS_VOICE_MAX_S` | `60` | Seconds after which the server stops a recording by itself (the audio so far is still transcribed on release) |
+| `JARVIS_VOICE_LEASE_S` | `4` | Seconds without a level poll from the page after which the server discards a recording and closes the microphone |
+| `JARVIS_VOICE_PYTHON` | `voice/.venv/bin/python` if it exists, else `python3` | Python with `faster-whisper` for the voice sidecar |
+| `JARVIS_VOICE_MODEL` | `large-v3` | Whisper model of the sidecar |
+| `JARVIS_VOICE_LANGS` | `en,ru` | Languages the sidecar picks from |
+| `JARVIS_VOICE_IDLE_S` | `600` | Idle seconds before the sidecar exits and frees VRAM |
+| `JARVIS_VOICE_TIMEOUT_S` | `120` | Seconds one recording may take to transcribe; then the sidecar is killed, the request fails and the next one restarts it |
+| `JARVIS_VOICE_PROMPT` | unset | Extra Whisper initial-prompt terms, appended to the built-in list (comma-separated names and terms). The built-in list biases recognition toward English dev terms said in Russian speech: Jarvis, workspace, worktree, arbiter, agent, spawn, board, notes, Claude, Opus, Sonnet, git, commit, branch, rebase, merge, push, pull request, PR, main, diff, review, test, e2e, npm, TypeScript, Python, Docker, Kafka, API, CI, bug, fix, refactor, deploy (full text: `DEFAULT_PROMPT` in `voice/stt.py`). Keep it a plain list of terms, not a sentence: a result that equals or nearly equals the prompt, repeats its start, or repeats a run of two or more of its terms is dropped as an echo (a prompt under 4 words only when repeated whole) |
+| `JARVIS_VOICE_PROMPT_DEFAULT` | `1` | `0` leaves the built-in term list out, so only `JARVIS_VOICE_PROMPT` is used; with both, no prompt at all |
+| `JARVIS_VOICE_DEBUG_WAV` | unset (off) | Directory. **Deliberately writes your audio and its transcript to disk**: every recording overwrites `<dir>/last.wav` (16 kHz mono s16) and `<dir>/last.txt`. For diagnosing recognition quality; leave unset otherwise |
+
+Data lives in `~/.local/share/jarvis/` (or `$XDG_DATA_HOME/jarvis`), never in this repo.

diff --git a/docs/ARCHITECTURE.md b/docs/ARCHITECTURE.md
@@ -1,6 +1,6 @@
 # Jarvis: technical documentation
 
-This file is for people (and their coding agents) who want to change Jarvis. The [README](../README.md) explains what Jarvis is and how to use it. Here you find how it is built, where each thing lives, and how to extend it without breaking the guarantees it makes.
+This file is for people (and their coding agents) who want to change Jarvis. The [README](../README.md) explains what Jarvis is and the [user guide](GUIDE.md) covers using it in detail. Here you find how it is built, where each thing lives, and how to extend it without breaking the guarantees it makes.
 
 ## Contents
 
@@ -50,7 +50,7 @@ flowchart LR
 | `public/index.html` | The whole UI: HTML, CSS and plain JS in one file. No framework, no build. |
 | `bin/jarvis.mjs` | CLI launcher: `jarvis [start\|stop\|restart\|status\|logs]`. Runs the server detached and opens the browser. |
 | `e2e/` | Playwright specs, `helpers.ts`, `fake-sdk.ts` (the scripted stand-in for the SDK) and `fake-voice.ts` (stand-in for the voice sidecar) and `fake-capture.ts` (stand-in for `pw-record`: raw PCM tone; modes `silent`, `exit`) (see [Running and checking](#running-and-checking)). |
-| `docs/` | This file and the README screenshots. `.github/workflows/wiki.yml` publishes `README.md` and `docs/` to the GitHub wiki (generated pages, edit them here). |
+| `docs/` | This file, `GUIDE.md` (the user guide) and the README screenshots. `.github/workflows/wiki.yml` publishes `README.md` and `docs/` to the GitHub wiki (generated pages, edit them here). |
 | `tsconfig.json` | Type check only (`noEmit`). Node runs `.ts` directly. |
 
 Inside `src/agents.ts`, top to bottom:
@@ -372,7 +372,7 @@ During the snapshot replay `replaying` is true, so pulses are not animated. `rea
 | `JARVIS_VOICE_LANGS` | `en,ru` | Sidecar languages |
 | `JARVIS_VOICE_IDLE_S` | `600` | Idle seconds before the sidecar is killed (invalid values fall back to 600) |
 | `JARVIS_VOICE_TIMEOUT_S` | `120` | Per-job limit: a job running longer is failed and the sidecar killed; the next job respawns it |
-| `JARVIS_VOICE_PROMPT` | see README | Sidecar: extra terms appended (`, `) to `DEFAULT_PROMPT`, the Whisper `initial_prompt` (`prompt_from_env`). `stt.py` drops a result equal or near-equal to it, starting like it, or repeating a run of 2+ of its terms (`echoes_prompt`; a prompt under 4 words only when repeated whole), because Whisper can echo the prompt on noise. The default is a plain term list: an echoed sentence would be sent to an agent. Its neighbours are ordered so no two form a phrase said alone ("git commit", "npm test"), which the run-of-terms check would drop; a test guards that |
+| `JARVIS_VOICE_PROMPT` | see `docs/GUIDE.md` | Sidecar: extra terms appended (`, `) to `DEFAULT_PROMPT`, the Whisper `initial_prompt` (`prompt_from_env`). `stt.py` drops a result equal or near-equal to it, starting like it, or repeating a run of 2+ of its terms (`echoes_prompt`; a prompt under 4 words only when repeated whole), because Whisper can echo the prompt on noise. The default is a plain term list: an echoed sentence would be sent to an agent. Its neighbours are ordered so no two form a phrase said alone ("git commit", "npm test"), which the run-of-terms check would drop; a test guards that |
 | `JARVIS_VOICE_PROMPT_DEFAULT` | `1` | Sidecar: `0` leaves `DEFAULT_PROMPT` out (empty prompt when `JARVIS_VOICE_PROMPT` is unset too) |
 | `JARVIS_VOICE_DEBUG_WAV` | unset | Directory; `withDebugDump` in `src/voice.ts` writes each clip to `<dir>/last.wav` (16 kHz mono s16) and the text to `<dir>/last.txt`, overwriting (directory `0700`, files `0600`, written through a temp file and renamed so a symlink at `last.wav` is replaced, not followed). Exception to the no-storage rule, see invariant 9 |
 | `JARVIS_VOICE_MAX_S` | `60` | Recording cap in seconds; capture stops, the samples stay for `/voice/stop` |
